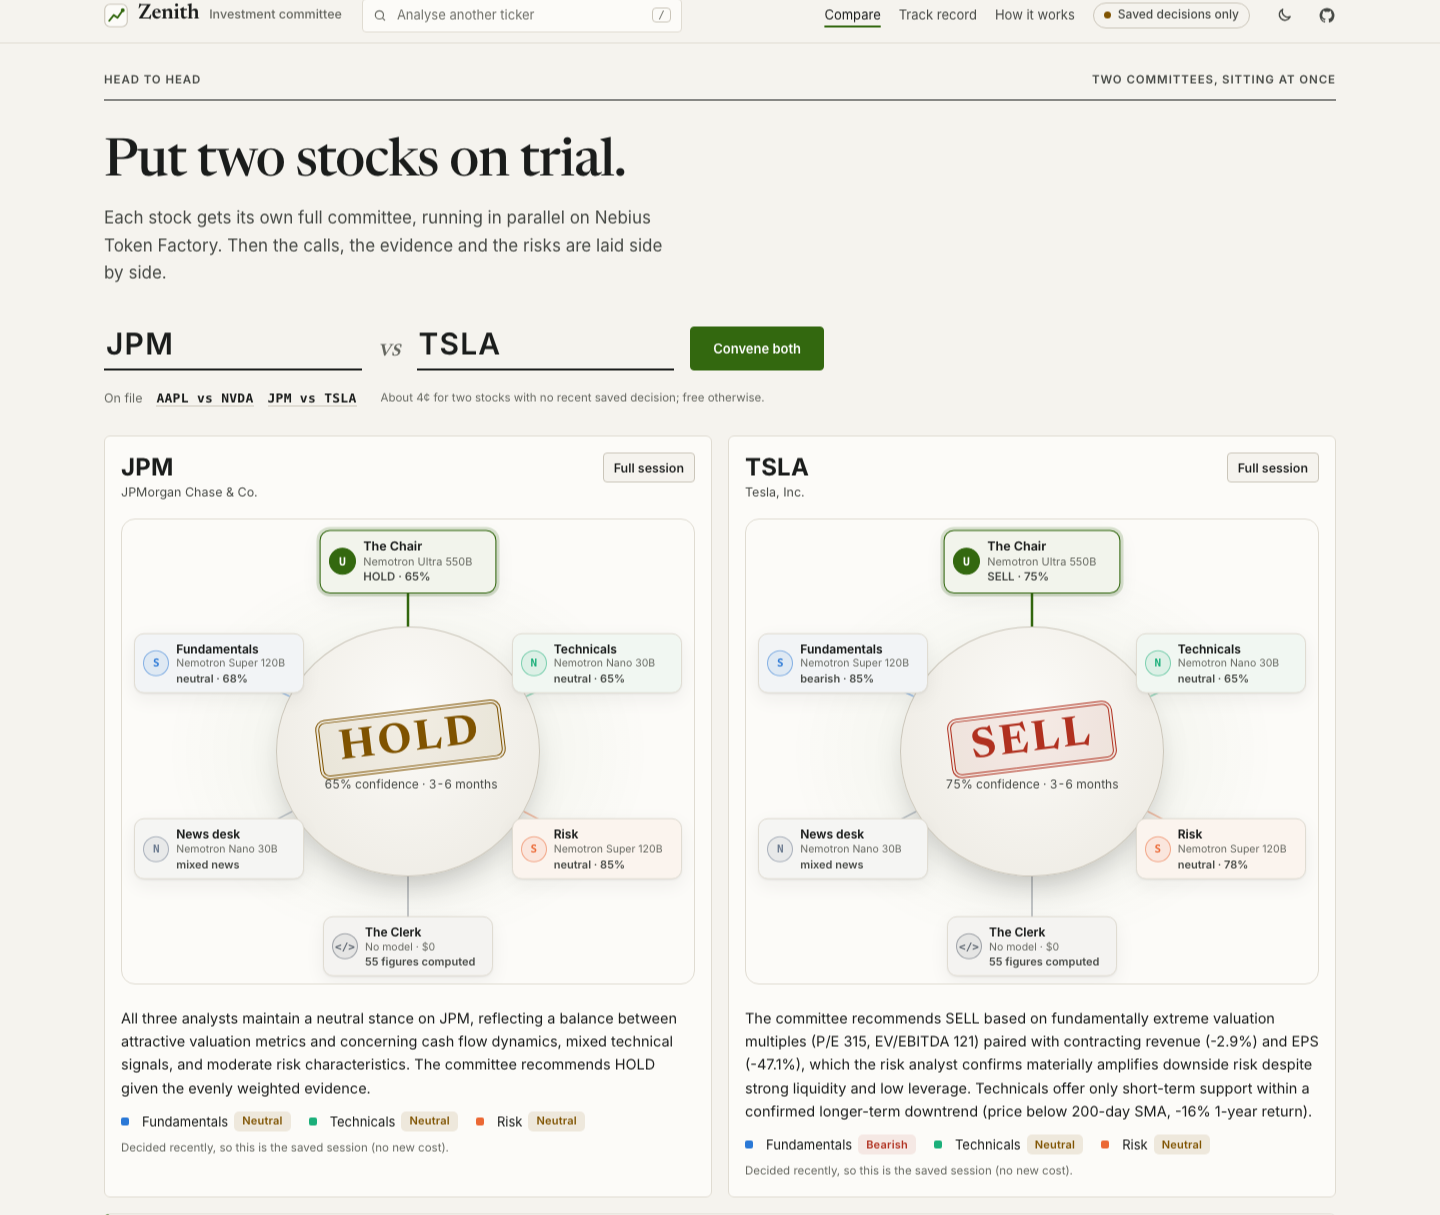
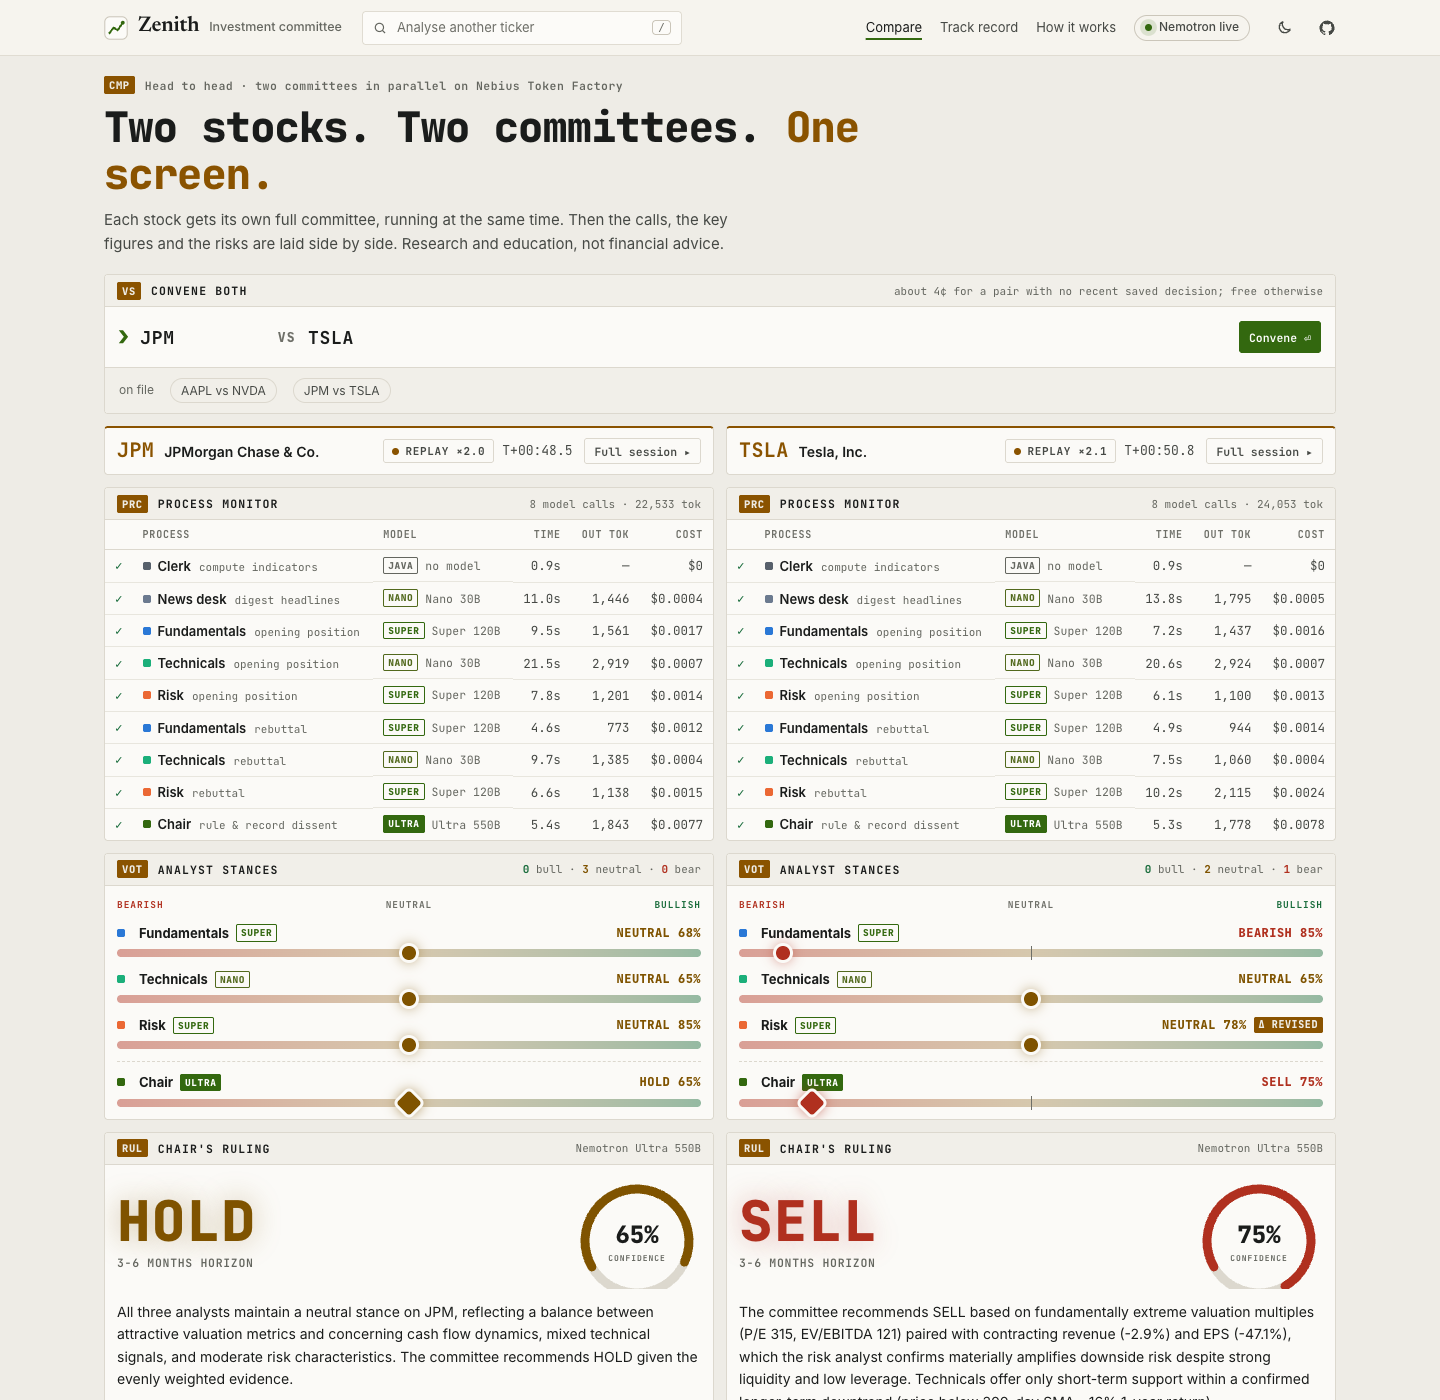
README: screenshots of the terminal session, landing console and head to head

diff --git a/README.md b/README.md
@@ -17,12 +17,14 @@ Built for the **Nebius x NVIDIA Global AI Hackathon** (Best Apps and Agents trac
 
 **Live demo:** _coming soon_ · **Demo video:** _coming soon_
 
-![The boardroom: five Nemotron models and a Java clerk around the table, the chair's BUY stamped in the centre, and the minutes on the right](docs/screenshots/boardroom.png)
+![The session screen: every Nemotron call in a process monitor with its model, time, tokens and cost; the session log with traced figures highlighted; the Ultra chair's BUY at 75% confidence with its reasons and the dissent on the record](docs/screenshots/terminal.png)
 
 <details>
-<summary>Head to head: two committees in parallel (light theme)</summary>
+<summary>The landing console and head to head (light theme)</summary>
 
-![Two committees side by side: JPM stamped HOLD, TSLA stamped SELL](docs/screenshots/head-to-head.png)
+![The landing page: start-up checks stating which Nemotron model holds which seat, a command prompt, and the stocks on file with their last recorded close and latest call](docs/screenshots/landing.png)
+
+![Two committees in parallel: JPM ruled HOLD, TSLA ruled SELL, each with its own process monitor and analyst stances](docs/screenshots/head-to-head.png)
 
 </details>
 
